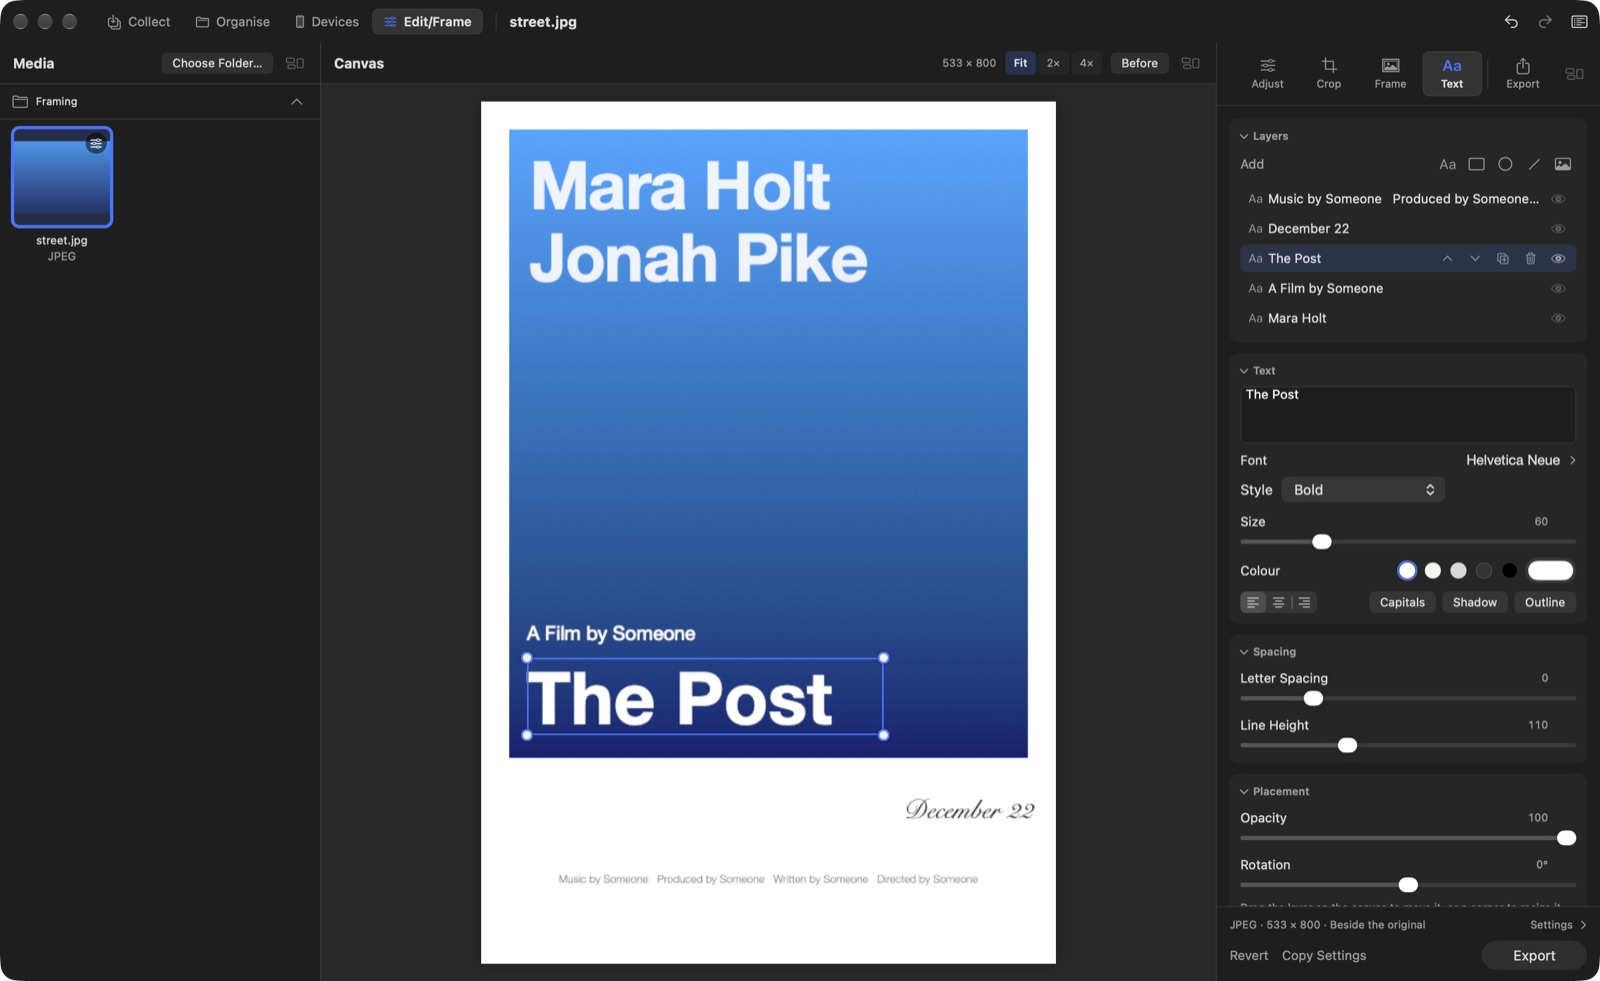
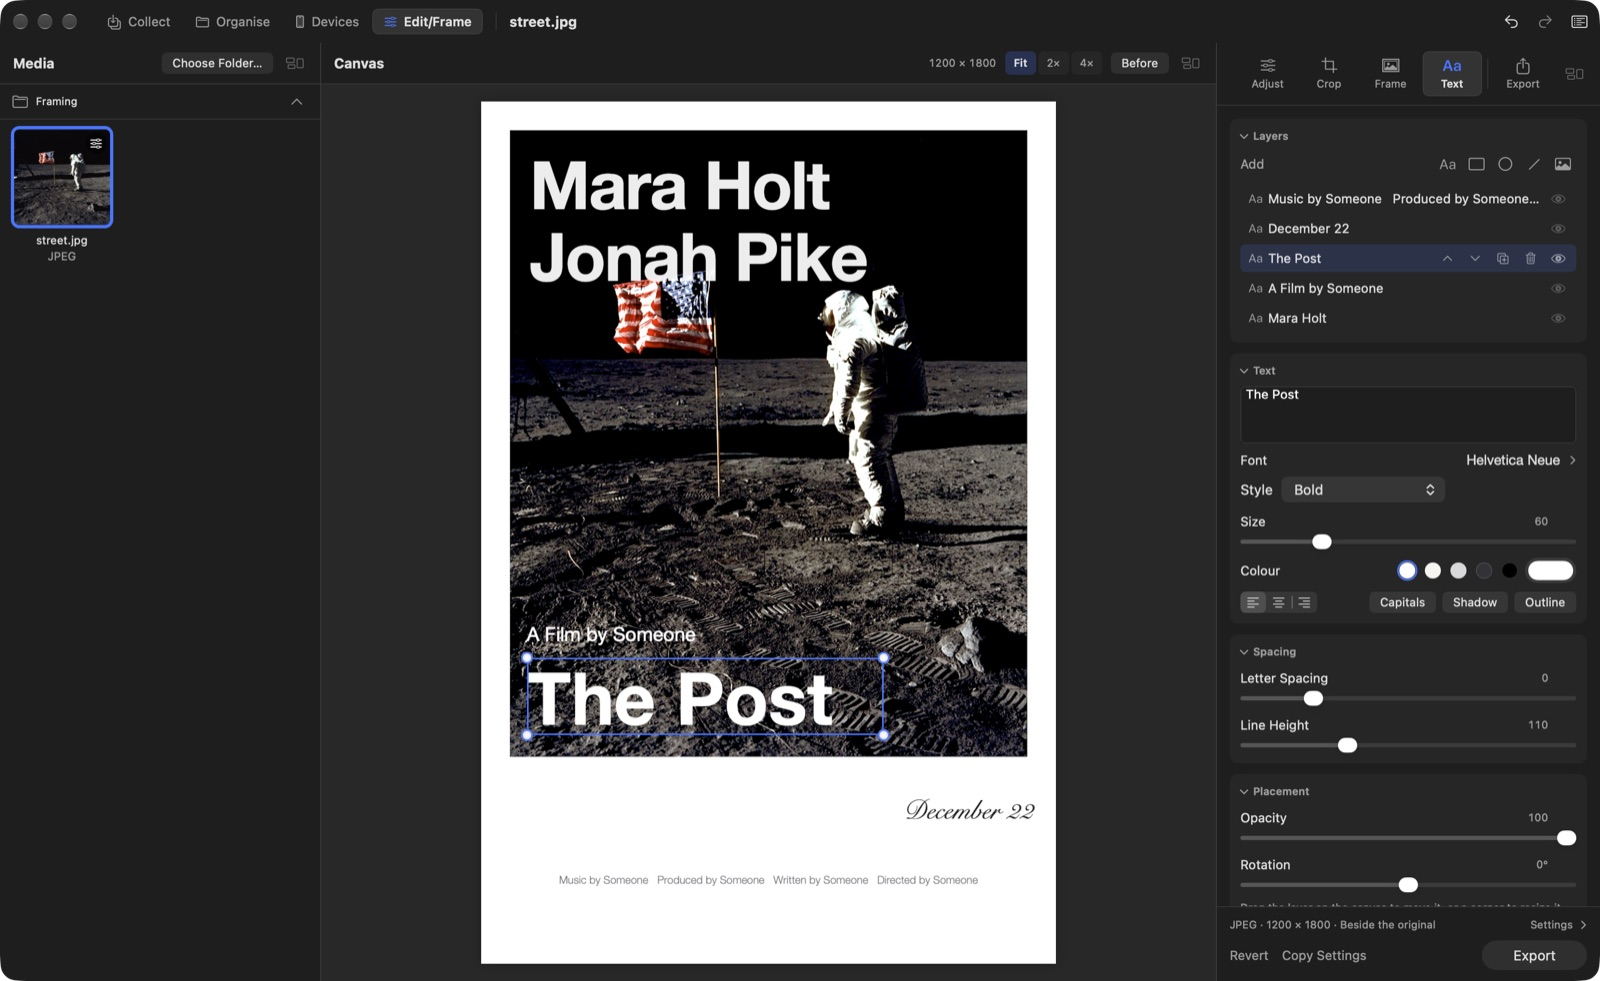
Version 1.9; README screenshots with public-domain NASA images
Edit/Frame, Organise, Profile view and Devices are retaken with NASA photos (Apollo 11, the ISS, Hubble and Earth
Observatory), which are in the public domain; Collect, List and Column views already show NASA's Image of the Day page.
Self-tests take MEDIAPULL_SAMPLE_PHOTOS for such screenshot runs (never set in check.sh). Pixel sizes on the canvas
are written without thousands separators, as in the Export bar.

diff --git a/MediaPull/App/SelfTest.swift b/MediaPull/App/SelfTest.swift
@@ -1555,6 +1555,7 @@ final class SelfTestRunner {
                 CGImageDestinationFinalize(destination)
             }
         }
+        if let sample = Self.samplePhotos.first { try? sample.write(to: photo) }
         let original = (try? FileHasher.sha256(of: photo)) ?? ""
         let edit = model.edit
         model.openInEdit([photo])
@@ -2600,7 +2601,19 @@ final class SelfTestRunner {
     }
 
     /// A small JPEG in a colour of its own, so no two fixtures are the same picture.
+    /// For README screenshots only, never in check.sh: `MEDIAPULL_SAMPLE_PHOTOS` names a folder of public-domain photos
+    /// that take the place of the generated test pictures, in name order. Their checks may then fail; the captures are
+    /// what such a run is for.
+    static let samplePhotos: [Data] = {
+        guard let path = ProcessInfo.processInfo.environment["MEDIAPULL_SAMPLE_PHOTOS"],
+              let names = try? FileManager.default.contentsOfDirectory(atPath: path) else { return [] }
+        return names.filter { $0.lowercased().hasSuffix(".jpg") }.sorted().compactMap { name in
+            try? Data(contentsOf: URL(fileURLWithPath: path).appendingPathComponent(name))
+        }
+    }()
+
     static func jpeg(_ index: Int) -> Data {
+        if !samplePhotos.isEmpty { return samplePhotos[index % samplePhotos.count] }
         let rep = NSBitmapImageRep(bitmapDataPlanes: nil, pixelsWide: 64, pixelsHigh: 48, bitsPerSample: 8, samplesPerPixel: 3,
                                    hasAlpha: false,
                                    isPlanar: false, colorSpaceName: .deviceRGB, bytesPerRow: 0, bitsPerPixel: 0)!

diff --git a/MediaPull/Features/EditFrame/EditInspector.swift b/MediaPull/Features/EditFrame/EditInspector.swift
@@ -220,7 +220,7 @@ private struct CropTab: View {
                 edit.setAspect($0)
             }
             if let pixels = edit.cropPixels, pixels.width > 0 {
-                Text("\(Int(pixels.width)) × \(Int(pixels.height)) px of the photo")
+                Text(verbatim: "\(Int(pixels.width)) × \(Int(pixels.height)) px of the photo")
                     .font(.caption.monospacedDigit()).foregroundStyle(.secondary)
             }
             EditSlider(label: "Straighten", value: Binding(
@@ -984,7 +984,8 @@ private struct ExportTab: View {
             ForEach(ExportSettings.Size.allCases, id: \.self) { Text($0.label).tag($0) }
         }
         if let pixels = edit.outputPixels, pixels.width > 0 {
-            Text("Written at \(Int(pixels.width)) × \(Int(pixels.height)) px.").font(.caption.monospacedDigit()).foregroundStyle(.secondary)
+            Text(verbatim: "Written at \(Int(pixels.width)) × \(Int(pixels.height)) px.")
+                .font(.caption.monospacedDigit()).foregroundStyle(.secondary)
         }
         if edit.recipe?.export.format != .png {
             EditSlider(label: "Quality", value: Binding(

diff --git a/MediaPull/Features/EditFrame/EditPanes.swift b/MediaPull/Features/EditFrame/EditPanes.swift
@@ -130,7 +130,7 @@ struct EditCanvasPane: View {
         VStack(spacing: 0) {
             PaneHeader(title: "Canvas", pane: .editCanvas, model: model) {
                 if showsPicture, let pixels = edit.outputPixels, pixels.width > 0, edit.kind == .image {
-                    Text("\(Int(pixels.width)) × \(Int(pixels.height))")
+                    Text(verbatim: "\(Int(pixels.width)) × \(Int(pixels.height))")
                         .font(.caption.monospacedDigit())
                         .foregroundStyle(.secondary)
                         .help("The size Export writes, in pixels")

diff --git a/MediaPull/Features/EditFrame/EditControls.swift b/MediaPull/Features/EditFrame/EditControls.swift
@@ -130,7 +130,7 @@ struct EditCropOverlay: View {
                     .position(x: rect.midX, y: rect.midY)
                     .allowsHitTesting(false)
                 if let pixels = model.cropPixels {
-                    Text("\(Int(pixels.width)) × \(Int(pixels.height)) px")
+                    Text(verbatim: "\(Int(pixels.width)) × \(Int(pixels.height)) px")
                         .font(.caption.monospacedDigit())
                         .foregroundStyle(.white)
                         .padding(.horizontal, 6)

diff --git a/docs/SPEC.md b/docs/SPEC.md
@@ -1,6 +1,6 @@
 # MediaPull Specification
 
-Version 1.8 (implemented: account folder updates, the audit decisions D-77 to D-106, and D-107 to D-113: safe file changes, Save As, notes, file details with a map, post details and profile views), 2026-11-18
+Version 1.9 (implemented: Devices, D-114 to D-118; formats, units and posts, drives, Map & Timeline and photo metadata edits, D-119 to D-126; Edit/Frame, D-127 to D-132), 2026-11-22. Version 1.8: account folder updates, the audit decisions D-77 to D-106, and D-107 to D-113: safe file changes, Save As, notes, file details with a map, post details and profile views
 
 This document is the source of truth for MediaPull. Code follows the spec; when a request or an implementation detail conflicts with it, the conflict is raised and the spec is updated first.
 
@@ -10,7 +10,7 @@ Conventions:
 - **D-nn** is a recorded decision (section 27). Decisions can be changed, but only by editing this spec.
 - "Verify in M0" marks a detail that depends on third-party behaviour and must be confirmed by the engine spike before it is built on.
 
-## Implementation status (version 1.8)
+## Implementation status (version 1.9)
 
 MediaPull is a personal tool for archiving and collecting media, not a public release. The app, its engines and the read-only contract are implemented. Some supporting pieces described here were deliberately not built for personal use: the `mediapull-test://` fixture pages and the extraction tests that would use them (section 25), CI enforcement of the performance budgets (section 22: `scripts/perf-budgets.json` records budgets measured by hand), `docs/PRIVACY.md`, `scripts/sign-helpers.sh`, Developer ID signing and notarization (section 26; the app is signed for this Mac only).
 

diff --git a/CLAUDE.md b/CLAUDE.md
@@ -10,7 +10,7 @@ The full product specification is the source of truth:
 
 Read the relevant section of the spec before writing or refactoring code. If a request conflicts with the spec, surface the conflict rather than silently deviating, and update the spec (with a D-nn decision entry where needed) before the code.
 
-Status: version 1.8 implemented, plus formats, units and posts (section 42, D-119 to D-122), drives (section 43, D-123), the Map &
+Status: version 1.9 implemented: version 1.8, plus formats, units and posts (section 42, D-119 to D-122), drives (section 43, D-123), the Map &
 Timeline pane (section 44, D-124), photo metadata edits (section 45, D-125, D-126) and the Edit/Frame section (section 46,
 D-127 to D-131: photo adjustments, frames, text and shapes, video and audio editing, export; audited in 14 rounds,
 `docs/audits/2026-11-21-*.md`); and the Devices section (section 41, D-115 to D-118: phones and cameras over USB, read-only)
@@ -93,6 +93,9 @@ MediaPull/                        (project root, inside an iCloud-synced Desktop
   `--selftest-edits` (offline: a rating written into a HEIC losslessly with its analysis kept, a RAW pair's `.xmp`, a
   date shift, the Rating filter and Undo), `--selftest-drives <mount>` (an exFAT image check.sh attaches: a camera card imported, a pair moved and undone, Eject))
   (theme and layout are restored afterwards).
+- README screenshots: run a self-test with `MEDIAPULL_SAMPLE_PHOTOS=<folder of public-domain JPEGs>` and the generated test
+  pictures become those photos, in name order (checks may fail then; never set it in `check.sh`). The current images use
+  NASA photos and NASA's Image of the Day page.
 
 ## Rules
 

diff --git a/README.md b/README.md
@@ -28,13 +28,15 @@
 
 | Organise | Downloads |
 |---|---|
-| ![Organise: sort a folder by subject](docs/images/organise.jpg) | ![Downloads: choose a video's format and resolution, then Download or Save As](docs/images/downloads.jpg) |
+| ![Organise: a folder of NASA photos about to be sorted by what they show](docs/images/organise.jpg) | ![Downloads: choose a video's format and resolution, then Download or Save As](docs/images/downloads.jpg) |
 | **List view** | **Column view** |
 | ![List view: sortable columns and folders that open in place](docs/images/list-view.jpg) | ![Column view: folders in columns with a preview of the chosen file](docs/images/column-view.jpg) |
 | **Profile view** | **Devices** |
-| ![Profile view: a saved account with its highlights, pinned post and Reels, shown from a test folder](docs/images/profile.jpg) | ![Devices: a phone's photos and clips, and Import New](docs/images/devices.jpg) |
+| ![Profile view: a saved account with its highlights, pinned post and Reels, shown from a test folder of NASA photos](docs/images/profile.jpg) | ![Devices: a phone's photos and clips, with Import 4 New](docs/images/devices.jpg) |
 
-![Edit/Frame: a photo framed with the Poster template, its title chosen on the canvas with its text settings beside it](docs/images/edit-frame.jpg)
+![Edit/Frame: an Apollo 11 photo in the Poster template, its title chosen on the canvas with its text settings beside it](docs/images/edit-frame.jpg)
+
+The screenshots show NASA images, which are in the public domain, NASA's Image of the Day page, and a Blender open movie.
 
 ## Install
 
